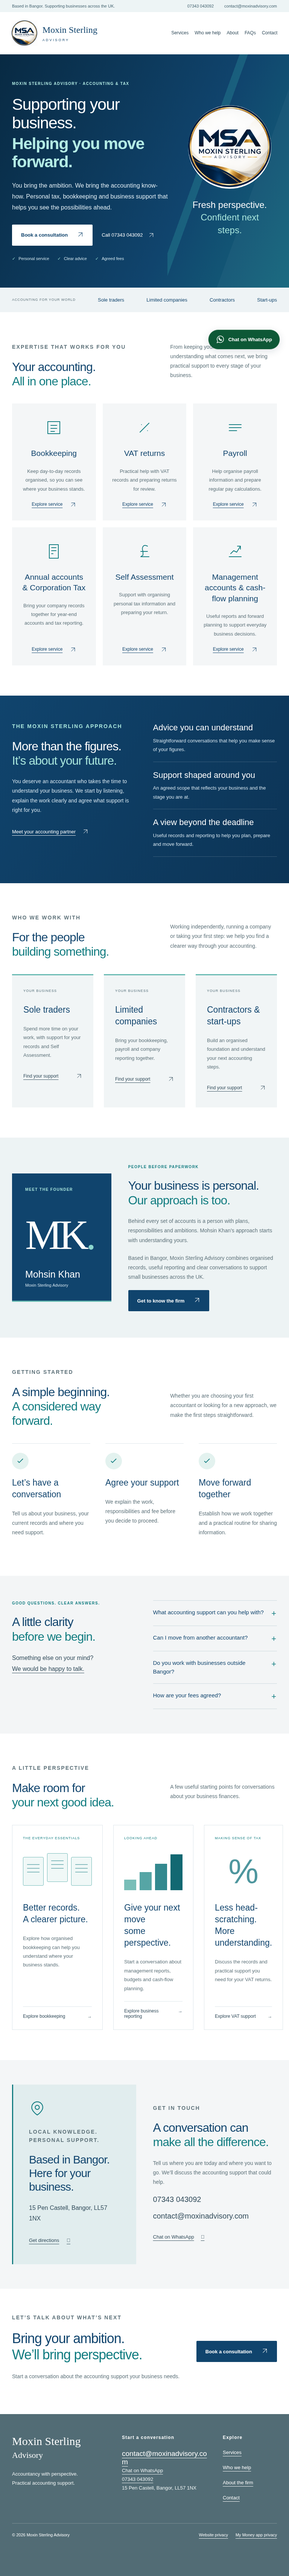
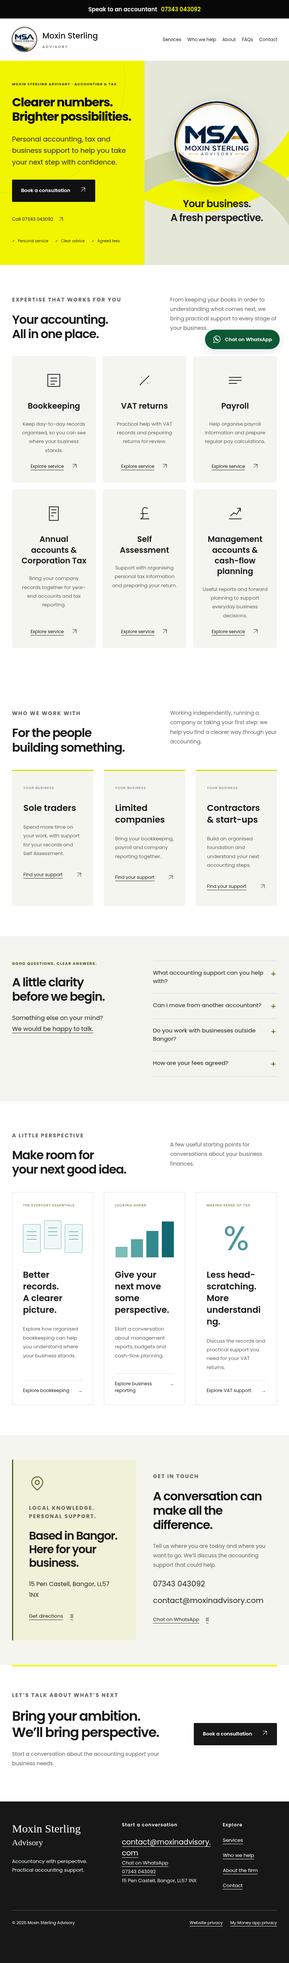
Introduce bold yellow and black identity with self-hosted Poppins typography

diff --git a/src/styles/global.css b/src/styles/global.css
@@ -1,12 +1,13 @@
 :root {
-  --navy: #10446d;
-  --teal: #117c80;
+  --navy: #171717;
+  --yellow: #f1f500;
+  --teal: #4e5516;
   --ivory: #fff;
-  --text: #304a59;
-  --muted: #5d7179;
-  --border: #dce5e9;
-  --brass: #117c80;
-  font-family: Arial, Helvetica, sans-serif;
+  --text: #242424;
+  --muted: #626262;
+  --border: #e2e2da;
+  --brass: #b8bd00;
+  font-family: "Poppins", Arial, Helvetica, sans-serif;
   color: var(--text);
   background: white;
   font-synthesis: none;
@@ -19,54 +20,57 @@ a, button { -webkit-tap-highlight-color: transparent; touch-action: manipulation
 :focus-visible { outline: 3px solid #b3802a; outline-offset: 5px; }
 h1, h2, h3, p { margin-top: 0; }
 h1, h2, h3 { color: var(--navy); }
-h1, h2 { font-weight: 400; letter-spacing: -.03em; }
+h1, h2 { font-weight: 600; letter-spacing: -.045em; }
 h1 { font-size: clamp(2.7rem, 4.8vw, 4.3rem); line-height: 1.13; }
 h2 { font-size: clamp(2rem, 3.2vw, 2.9rem); line-height: 1.2; margin-bottom: 24px; }
-h2 em { color: var(--teal); font-style: normal; }
-h3 { font-size: 23px; font-weight: 400; line-height: 1.35; }
+h2 em { color: inherit; font-style: normal; }
+h3 { font-size: 23px; font-weight: 600; line-height: 1.35; }
 p, li { line-height: 1.8; }
 p { margin-bottom: 22px; }
 img, svg { max-width: 100%; }
 .container { width: min(1200px, calc(100% - 96px)); margin-inline: auto; }
 .section { padding-block: 80px; }
 .eyebrow { font-size: 10px; letter-spacing: .15em; font-weight: 700; color: var(--teal); margin-bottom: 22px; line-height: 1.6; }
-.contact-bar { background: #edf4f5; font-size: 11px; color: #42616e; }
-.contact-bar .container { display: flex; align-items: center; gap: 28px; padding-block: 10px; }
-.contact-bar span { margin-right: auto; }
-.contact-bar a { text-decoration: none; }
+.contact-bar { background: #080808; color: white; font-size: 15px; font-weight: 600; }
+.contact-bar .container { display: flex; align-items: center; justify-content: center; gap: 10px; padding-block: 13px; }
+.contact-bar a { color: var(--yellow); text-decoration: none; }
 .header { display: flex; justify-content: space-between; align-items: center; gap: 24px; padding: 22px max(4%, calc((100vw - 1200px)/2)); background: white; }
-.brand { display: flex; gap: 14px; align-items: center; text-decoration: none; color: var(--navy); font-size: 24px; font-family: Georgia, serif; flex-shrink: 0; }
-.brand-sub { display: block; font: 9px Arial, sans-serif; letter-spacing: .35em; margin-top: 8px; }
+.brand { display: flex; gap: 14px; align-items: center; text-decoration: none; color: var(--navy); font-size: 21px; font-family: "Poppins", sans-serif; font-weight: 500; flex-shrink: 0; }
+.brand-sub { display: block; font: 9px "Poppins", sans-serif; letter-spacing: .35em; margin-top: 8px; }
 .original-logo { object-fit: contain; display: block; aspect-ratio: 1; }
 .header-logo { width: 68px; height: 68px; }
 .header nav { display: flex; gap: 28px; align-items: center; }
 .header ul { list-style: none; display: flex; gap: 22px; padding: 0; margin: 0; }
 .header nav a { text-decoration: none; font-size: 12px; display: inline-flex; align-items: center; min-height: 44px; }
 .header nav a:hover, .header nav a[aria-current] { text-decoration: underline; text-decoration-color: var(--teal); }
-.header-cta { background: var(--navy); color: white; padding: 12px 18px; gap: 16px; }
+.header-cta { background: var(--yellow); color: #171717; padding: 13px 20px; gap: 16px; }
 .menu-toggle { display: none; }
 .button { display: inline-flex; align-items: center; justify-content: space-between; gap: 25px; text-decoration: none; background: var(--navy); color: white; border: 1px solid var(--navy); padding: 17px 23px; min-height: 52px; font-size: 13px; font-weight: 600; cursor: pointer; border-radius: 2px; }
-.button:hover { background: #0a3355; }
+.button:hover { background: #353535; }
 .button.secondary { background: transparent; color: var(--navy); }
 .text-link { display: inline-flex; align-items: center; gap: 18px; min-height: 44px; font-size: 13px; }
 .actions { display: flex; gap: 24px; align-items: center; flex-wrap: wrap; margin-top: 30px; }
-/* Restrained blue-and-teal banner, with the original logo as the only focal graphic. */
-.new-hero { background: linear-gradient(115deg, #082a43 0%, #10446d 63%, #14667c 100%); color: white; position: relative; overflow: hidden; }
-.new-hero:after { content: ''; position: absolute; inset: 0 0 0 58%; background: linear-gradient(110deg, transparent 35%, #39b9b43b 35%, #39b9b43b 39%, transparent 39%, transparent 65%, #ffffff09 65%); pointer-events: none; }
-.hero-grid { display: grid; grid-template-columns: 1.25fr .75fr; gap: 60px; align-items: center; padding-block: 70px; position: relative; z-index: 1; }
-.hero-copy h1 { color: white; font-weight: 400; margin-bottom: 25px; }
-.hero-copy h1 em { display: inline-block; font-weight: 600; color: #b4ece5; font-style: normal; margin-top: 6px; }
-.new-hero .eyebrow { color: #b4ece5; }
-.hero-lead { font-size: 16px; color: #e0edf4; max-width: 555px; }
-.new-hero .button { background: white; color: var(--navy); border-color: white; }
-.new-hero .button:hover { background: #e6f5f3; }
-.hero-phone { color: white; font-size: 13px; text-decoration: none; display: inline-flex; min-height: 44px; align-items: center; gap: 15px; }
-.hero-assurance { display: flex; gap: 22px; flex-wrap: wrap; font-size: 11px; color: #d5e9f1; margin-top: 28px; }
-.hero-assurance span:before { content: '✓'; color: #9be0d6; margin-right: 8px; }
-.brand-scene { display: flex; flex-direction: column; align-items: center; padding: 15px; min-width: 0; }
-.hero-logo { width: min(100%, 295px); height: auto; border-radius: 50%; }
-.scene-caption { font-size: 24px; line-height: 1.4; text-align: center; margin-top: 26px; font-weight: 400; color: white; }
-.scene-caption em { font-style: normal; color: #a8e5dc; }
+/* Bold yellow split banner, with original Moxin branding and abstract circular graphics. */
+.new-hero { background: var(--yellow); color: #111; position: relative; overflow: hidden; }
+.hero-grid.container { width: 100%; max-width: 1440px; }
+.hero-grid { display: grid; grid-template-columns: 1fr 1fr; align-items: stretch; position: relative; }
+.hero-copy { padding: 74px 50px 62px; position: relative; overflow: hidden; }
+.hero-copy:before { content: ''; position: absolute; width: 600px; height: 600px; border: 1px solid #14141412; border-radius: 50%; left: -270px; top: -250px; pointer-events: none; }
+.hero-copy h1 { position: relative; color: #080808; font-weight: 700; font-size: clamp(2.6rem,4.2vw,4rem); line-height: 1.17; margin-bottom: 26px; letter-spacing: -.045em; }
+.hero-copy h1 em { color: inherit; font-style: normal; font-weight: inherit; }
+.new-hero .eyebrow { color: #31330e; font-size: 9px; }
+.hero-lead { color: #21220c; font-size: 18px; line-height: 1.7; max-width: 550px; }
+.new-hero .button { background: #111; color: white; border-color: #111; }
+.new-hero .button:hover { background: #333; }
+.hero-phone { color: #171717; font-size: 12px; text-decoration: none; display: inline-flex; align-items: center; gap: 12px; min-height: 44px; }
+.hero-assurance { display: flex; gap: 18px; flex-wrap: wrap; color: #33360e; font-size: 10px; margin-top: 28px; }
+.hero-assurance span:before { content: '✓'; color: #171717; margin-right: 7px; }
+.brand-scene { display: flex; flex-direction: column; align-items: center; justify-content: center; padding: 55px 30px; min-height: 530px; background: #e5e7d9; position: relative; isolation: isolate; overflow: hidden; }
+.brand-scene:before { content: ''; position: absolute; width: 550px; height: 550px; border: 75px solid var(--yellow); border-radius: 50%; top: -300px; right: -110px; z-index: -1; }
+.brand-scene:after { content: ''; position: absolute; width: 550px; height: 550px; border: 75px solid #cdd2b3; border-radius: 50%; bottom: -390px; left: -200px; z-index: -1; }
+.hero-logo { width: min(70%,295px); height: auto; border-radius: 50%; box-shadow: 0 12px 40px #1112; background: white; }
+.scene-caption { color: #171717; font-size: 26px; font-weight: 600; line-height: 1.4; text-align: center; margin-top: 28px; letter-spacing: -.03em; }
+.scene-caption em { color: inherit; font-style: normal; }
 .scene-top, .scene-bottom, .orb, .scene-grid { display: none; }
 .audience-ribbon { background: #eef3f5; }
 .audience-ribbon .container { display: flex; align-items: center; justify-content: space-between; gap: 24px; padding-block: 25px; }
@@ -76,10 +80,10 @@ img, svg { max-width: 100%; }
 .section-head h2 { margin-bottom: 0; }
 .section-head p { max-width: 450px; color: var(--muted); font-size: 14px; }
 .new-services { display: grid; grid-template-columns: repeat(3, 1fr); gap: 28px; }
-.new-service { text-decoration: none; display: flex; flex-direction: column; align-items: center; text-align: center; padding: 32px 25px; background: #f4f6f7; border-bottom: 2px solid transparent; }
-.new-service:hover { background: #edf4f4; border-color: var(--teal); }
+.new-service { border-radius: 6px; text-decoration: none; display: flex; flex-direction: column; align-items: center; text-align: center; padding: 32px 25px; background: #f5f5ef; border-bottom: 2px solid transparent; }
+.new-service:hover { background: #f0f2ce; border-color: var(--teal); }
 .service-top { margin-bottom: 22px; }
-.service-symbol { color: var(--teal); display: flex; justify-content: center; align-items: center; width: 64px; height: 64px; }
+.service-symbol { color: #202020; display: flex; justify-content: center; align-items: center; width: 64px; height: 64px; }
 .service-symbol svg { width: 48px; height: 48px; stroke-width: 1; }
 .new-service h3 { font-size: 21px; }
 .new-service p { font-size: 13px; color: var(--muted); }
@@ -95,7 +99,7 @@ img, svg { max-width: 100%; }
 .principles article h3 { font-size: 22px; margin-bottom: 8px; }
 .principles article p { margin: 0; font-size: 13px; }
 .client-cards { display: grid; grid-template-columns: repeat(3, 1fr); gap: 28px; }
-.client-cards article { background: #f1f5f6; border-top: 3px solid #63b8b0; padding: 30px; }
+.client-cards article { background: #f5f5ef; border-top: 3px solid #d8df00; padding: 30px; }
 .client-index { font-size: 9px; letter-spacing: .13em; color: #526c77; }
 .client-cards h3 { margin-top: 28px; }
 .client-cards p { color: var(--muted); font-size: 13px; }
@@ -113,7 +117,7 @@ img, svg { max-width: 100%; }
 .process-grid article { border-top: 1px solid var(--border); padding-top: 24px; }
 .process-check { display: flex; width: 44px; height: 44px; align-items: center; justify-content: center; background: #e3f2ef; border-radius: 50%; color: var(--teal); margin-bottom: 20px; }
 .process-grid p { font-size: 14px; color: var(--muted); }
-.faq-section { background: #f3f5f6; padding-block: 65px; }
+.faq-section { background: #f4f4ee; padding-block: 65px; }
 .split { display: grid; grid-template-columns: 1fr 1fr; gap: 80px; align-items: start; }
 .faq-list { border-top: 1px solid #cbd8dd; }
 details { border-bottom: 1px solid #cbd8dd; }
@@ -122,8 +126,8 @@ summary::-webkit-details-marker { display: none; }
 summary:after { content: '+'; position: absolute; right: 2px; top: 17px; font-size: 22px; color: var(--teal); }
 details[open] summary:after { content: '−'; }
 details p { font-size: 14px; color: var(--muted); padding-right: 20px; }
-.perspective-grid { display: grid; grid-template-columns: repeat(3,1fr); gap: 28px; }
-.perspective-grid>a { display: flex; flex-direction: column; text-decoration: none; padding: 28px; border: 1px solid var(--border); }
+.perspective-grid { display: grid; grid-template-columns: repeat(3,minmax(0,1fr)); gap: 28px; }
+.perspective-grid>a { min-width: 0; overflow-wrap: anywhere; display: flex; flex-direction: column; text-decoration: none; padding: 28px; border: 1px solid var(--border); }
 .perspective-label { font-size: 9px; letter-spacing: .12em; color: var(--teal); line-height: 1.5; }
 .perspective-grid h3 { font-size: 23px; }
 .perspective-grid p { font-size: 13px; color: var(--muted); }
@@ -138,20 +142,20 @@ details p { font-size: 14px; color: var(--muted); padding-right: 20px; }
 .art-growth>span:nth-child(3) { height: 70px; background: #33898f; }
 .art-growth>span:nth-child(4) { height: 95px; background: #126872; }
 .art-tax { color: #4e969e; font-size: 90px; font-weight: 300; }
-.home-contact { padding-block: 65px; background: #f4f6f7; }
+.home-contact { padding-block: 65px; background: #f5f5ef; }
 .home-contact-grid { display: grid; grid-template-columns: 1fr 1fr; gap: 75px; align-items: center; }
 .home-contact p { font-size: 14px; color: var(--muted); }
-.location-panel { background: #e1edee; padding: 42px; border-left: 3px solid var(--teal); }
+.location-panel { background: #eff1d8; padding: 42px; border-left: 3px solid var(--teal); }
 .location-panel>svg { color: var(--teal); margin-bottom: 24px; }
 .location-panel h2 { font-size: 30px; }
 .location-panel address { font-style: normal; line-height: 1.8; margin-bottom: 20px; }
 .location-panel a { font-size: 13px; display: inline-flex; min-height: 44px; align-items: center; gap: 20px; }
 .contact-direct { display: block; width: fit-content; font-size: 20px; text-decoration: none; min-height: 44px; overflow-wrap: anywhere; max-width: 100%; }
-.invitation { display: flex; align-items: center; justify-content: space-between; gap: 40px; padding-block: 65px; }
+.invitation { border-top: 4px solid var(--yellow); display: flex; align-items: center; justify-content: space-between; gap: 40px; padding-block: 65px; }
 .invitation h2 { font-size: 36px; }
 .invitation p { color: var(--muted); max-width: 550px; font-size: 14px; }
 .invitation .button { flex-shrink: 0; }
-.footer { background: #526c75; color: white; padding-top: 55px; padding-bottom: 80px; }
+.footer { background: #171717; color: white; padding-top: 55px; padding-bottom: 80px; }
 .footer-top { display: grid; grid-template-columns: 1.1fr 1fr .6fr; gap: 45px; padding-bottom: 35px; }
 .footer-brand { display: block; font-family: Georgia,serif; font-size: 30px; text-decoration: none; margin-bottom: 24px; }
 .footer-brand span { font-size: 22px; }
@@ -222,7 +226,8 @@ textarea { resize: vertical; min-height: 145px; }
   .header ul { gap: 16px; }
   .header-cta { display: none !important; }
   .container { width: calc(100% - 64px); }
-  .hero-grid { gap: 35px; }
+  .hero-copy { padding: 55px 32px; }
+  .hero-copy h1 { font-size: clamp(2rem,4.2vw,3rem); }
   .new-services { gap: 18px; }
   .why-grid, .founder-grid, .split, .contact-layout, .home-contact-grid { gap: 45px; }
   .footer-top { gap: 28px; }
@@ -230,8 +235,7 @@ textarea { resize: vertical; min-height: 145px; }
 @media(max-width:760px) {
   .container { width: calc(100% - 40px); }
   .section { padding-block: 48px; }
-  .contact-bar .container { gap: 10px; justify-content: space-between; font-size: 10px; }
-  .contact-bar span { display: none; }
+  .contact-bar .container { gap: 7px; justify-content: center; font-size: 12px; padding-block: 12px; }
   .header { padding: 14px 20px; flex-wrap: wrap; gap: 14px; }
   .brand { font-size: 21px; gap: 10px; }
   .header-logo { width: 52px; height: 52px; }
@@ -244,13 +248,13 @@ textarea { resize: vertical; min-height: 145px; }
   html.js .header nav.open { display: block; }
   .header nav.open ul { display: flex; flex-direction: column; }
   .header nav a { min-height: 46px; font-size: 14px; }
-  .hero-grid { grid-template-columns: 1fr; padding-block: 40px; gap: 0; }
-  .hero-copy h1 { font-size: clamp(2.2rem,8.4vw,3.1rem); line-height: 1.14; margin-bottom: 22px; }
-  .hero-lead { font-size: 15px; }
+  .hero-grid { grid-template-columns: 1fr; gap: 0; }
+  .hero-copy { padding: 38px 20px; }
+  .hero-copy h1 { font-size: clamp(2rem,8.5vw,3rem); line-height: 1.18; margin-bottom: 20px; }
+  .hero-lead { font-size: 16px; }
   .new-hero .eyebrow { font-size: 9px; letter-spacing: .08em; }
-  .new-hero:after { display: none; }
   .brand-scene { display: none; }
-  .hero-assurance { font-size: 10px; gap: 14px; margin-top: 24px; }
+  .hero-assurance { font-size: 9px; gap: 12px; margin-top: 23px; }
   .hero-phone { font-size: 12px; }
   .actions { gap: 14px 20px; }
   .audience-ribbon .container { flex-wrap: wrap; gap: 15px 22px; padding-block: 22px; }

diff --git a/docs/REBUILD.md b/docs/REBUILD.md
@@ -37,3 +37,11 @@ Decorative numbering is removed from the homepage services, principles, business
 Mobile removes the oversized hero logo panel (the original logo stays in the header), uses compact service icons and suppresses decorative lower-page graphics. WhatsApp becomes an accessible icon button on phones to reduce content overlap; the contact-page text link is retained.
 
 Checks: Astro check and 14-page build passed; existing browser suite passed on all 13 normal pages at 375, 768 and 1440 pixels. Additional checks on home, services, about and contact passed at 320, 375, 390, 430, 768 and 1440 pixels: no horizontal overflow, no standalone decorative numbering, original header logo loaded and WhatsApp visible. Updated desktop and mobile preview images are in docs/screenshots. Publication remains separate from this source update.
+
+## Bright yellow and black reference direction
+
+The latest owner-supplied screenshot inspired a black call bar, self-hosted Poppins typography, bold yellow split hero and geometric circular graphics around the original MSA logo. The external brand's photograph, logo and claims are not reused. The business number is described as a phone contact, not freephone.
+
+Poppins 400/500/600/700 Latin font files are served with the website via the pinned @fontsource/poppins dependency; there is no external font request. Existing removed homepage sections remain absent. The compact mobile service layout is preserved, and the large hero illustration stays hidden on phones.
+
+Validation: Astro check and 14-page build passed. The existing browser suite passed on 13 normal pages at 375, 768 and 1440 pixels. An initial 768px perspective-card overflow from the wider typeface was corrected using minmax(0, 1fr) grid tracks. Additional homepage checks passed at 320, 375, 430, 768, 1024 and 1440 pixels, with loaded original logo and fonts. Updated review screenshots are home-preview.png and mobile-preview.png. These source changes have not been published to gh-pages.
